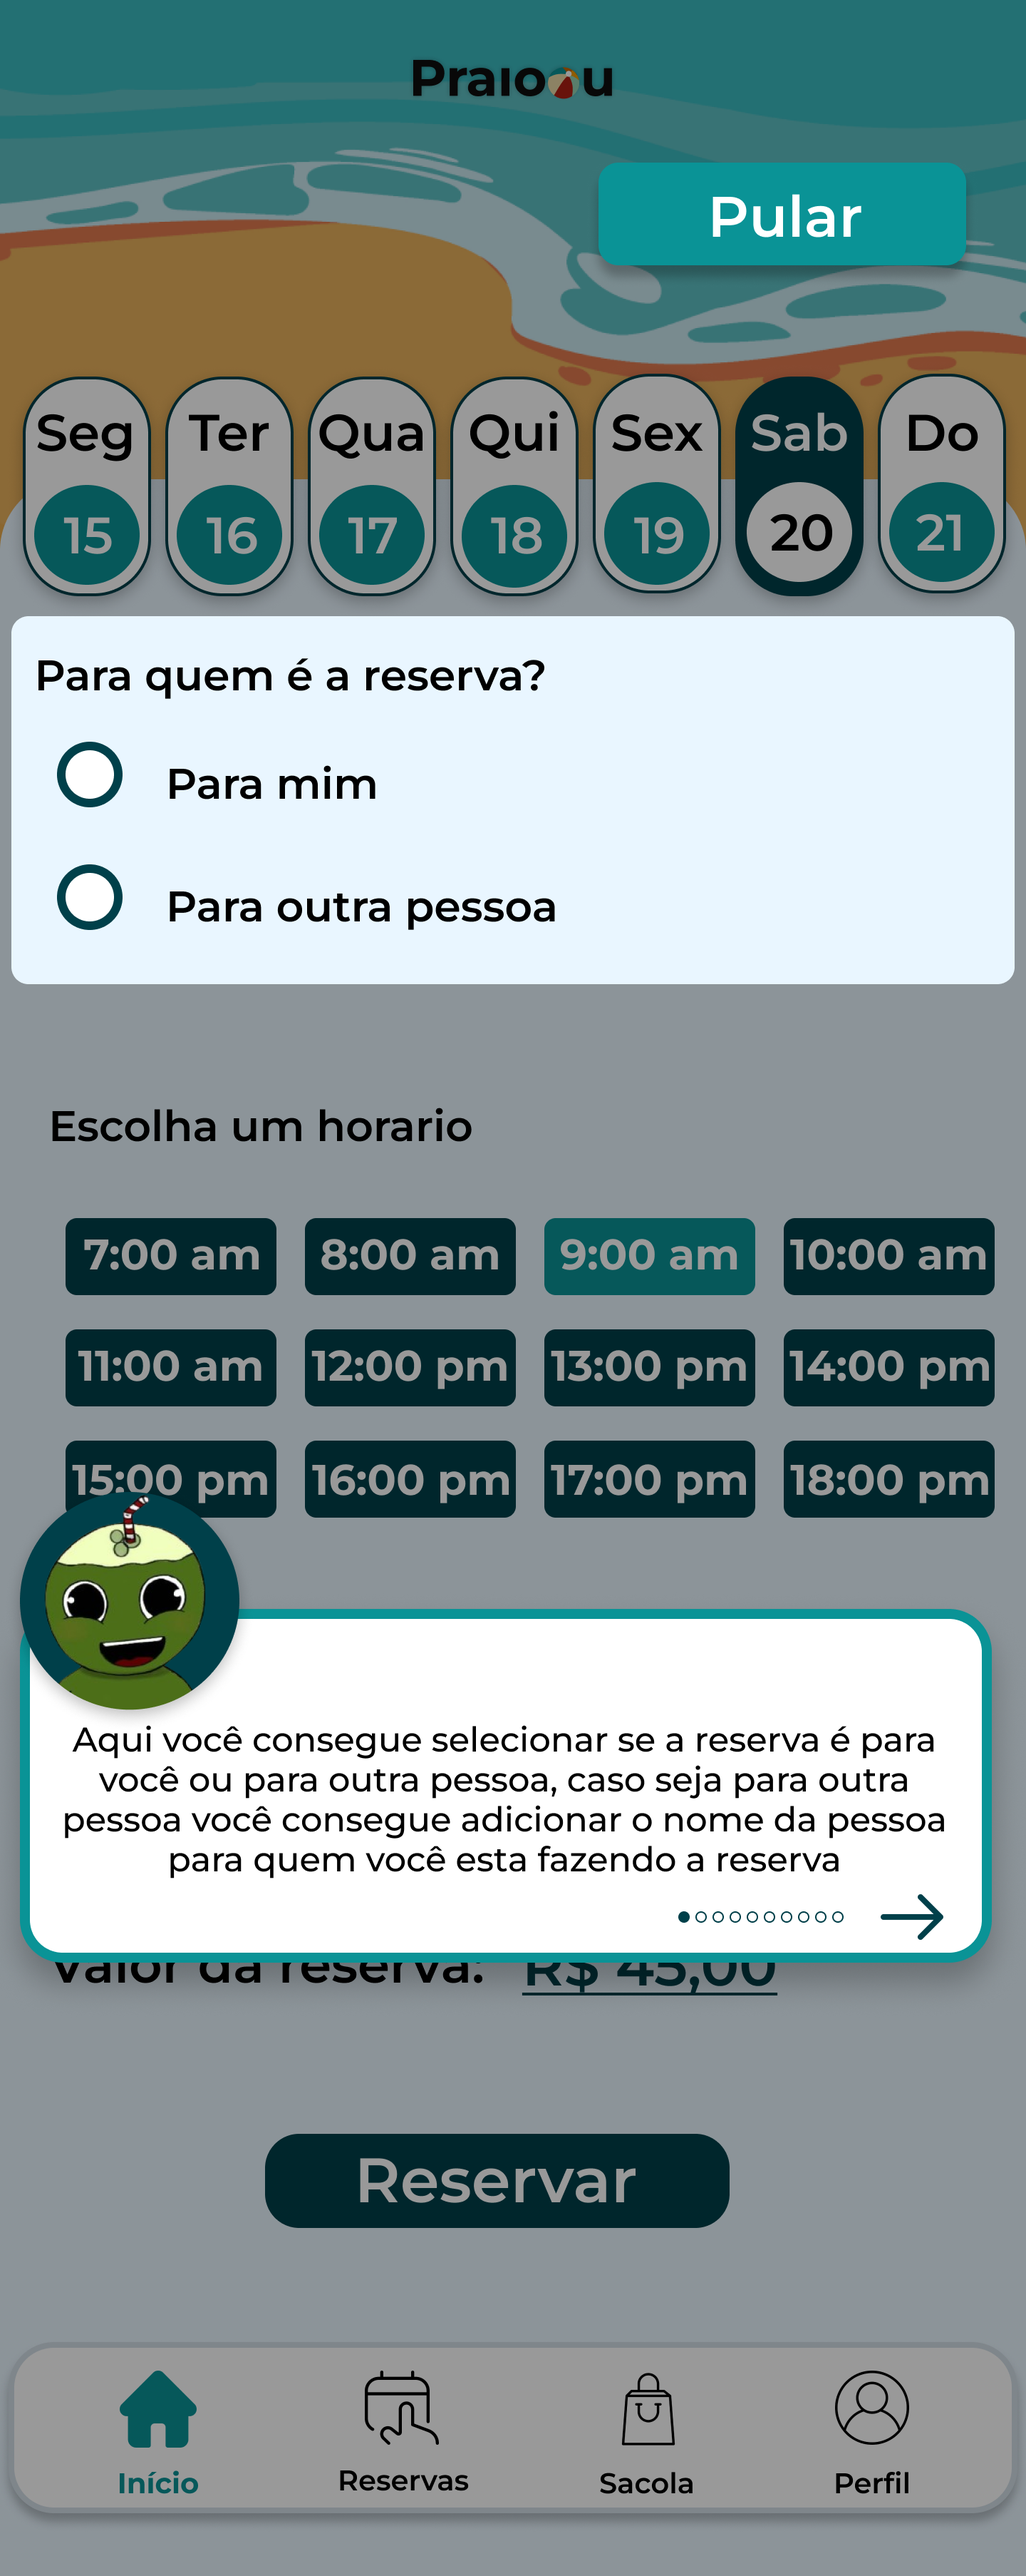
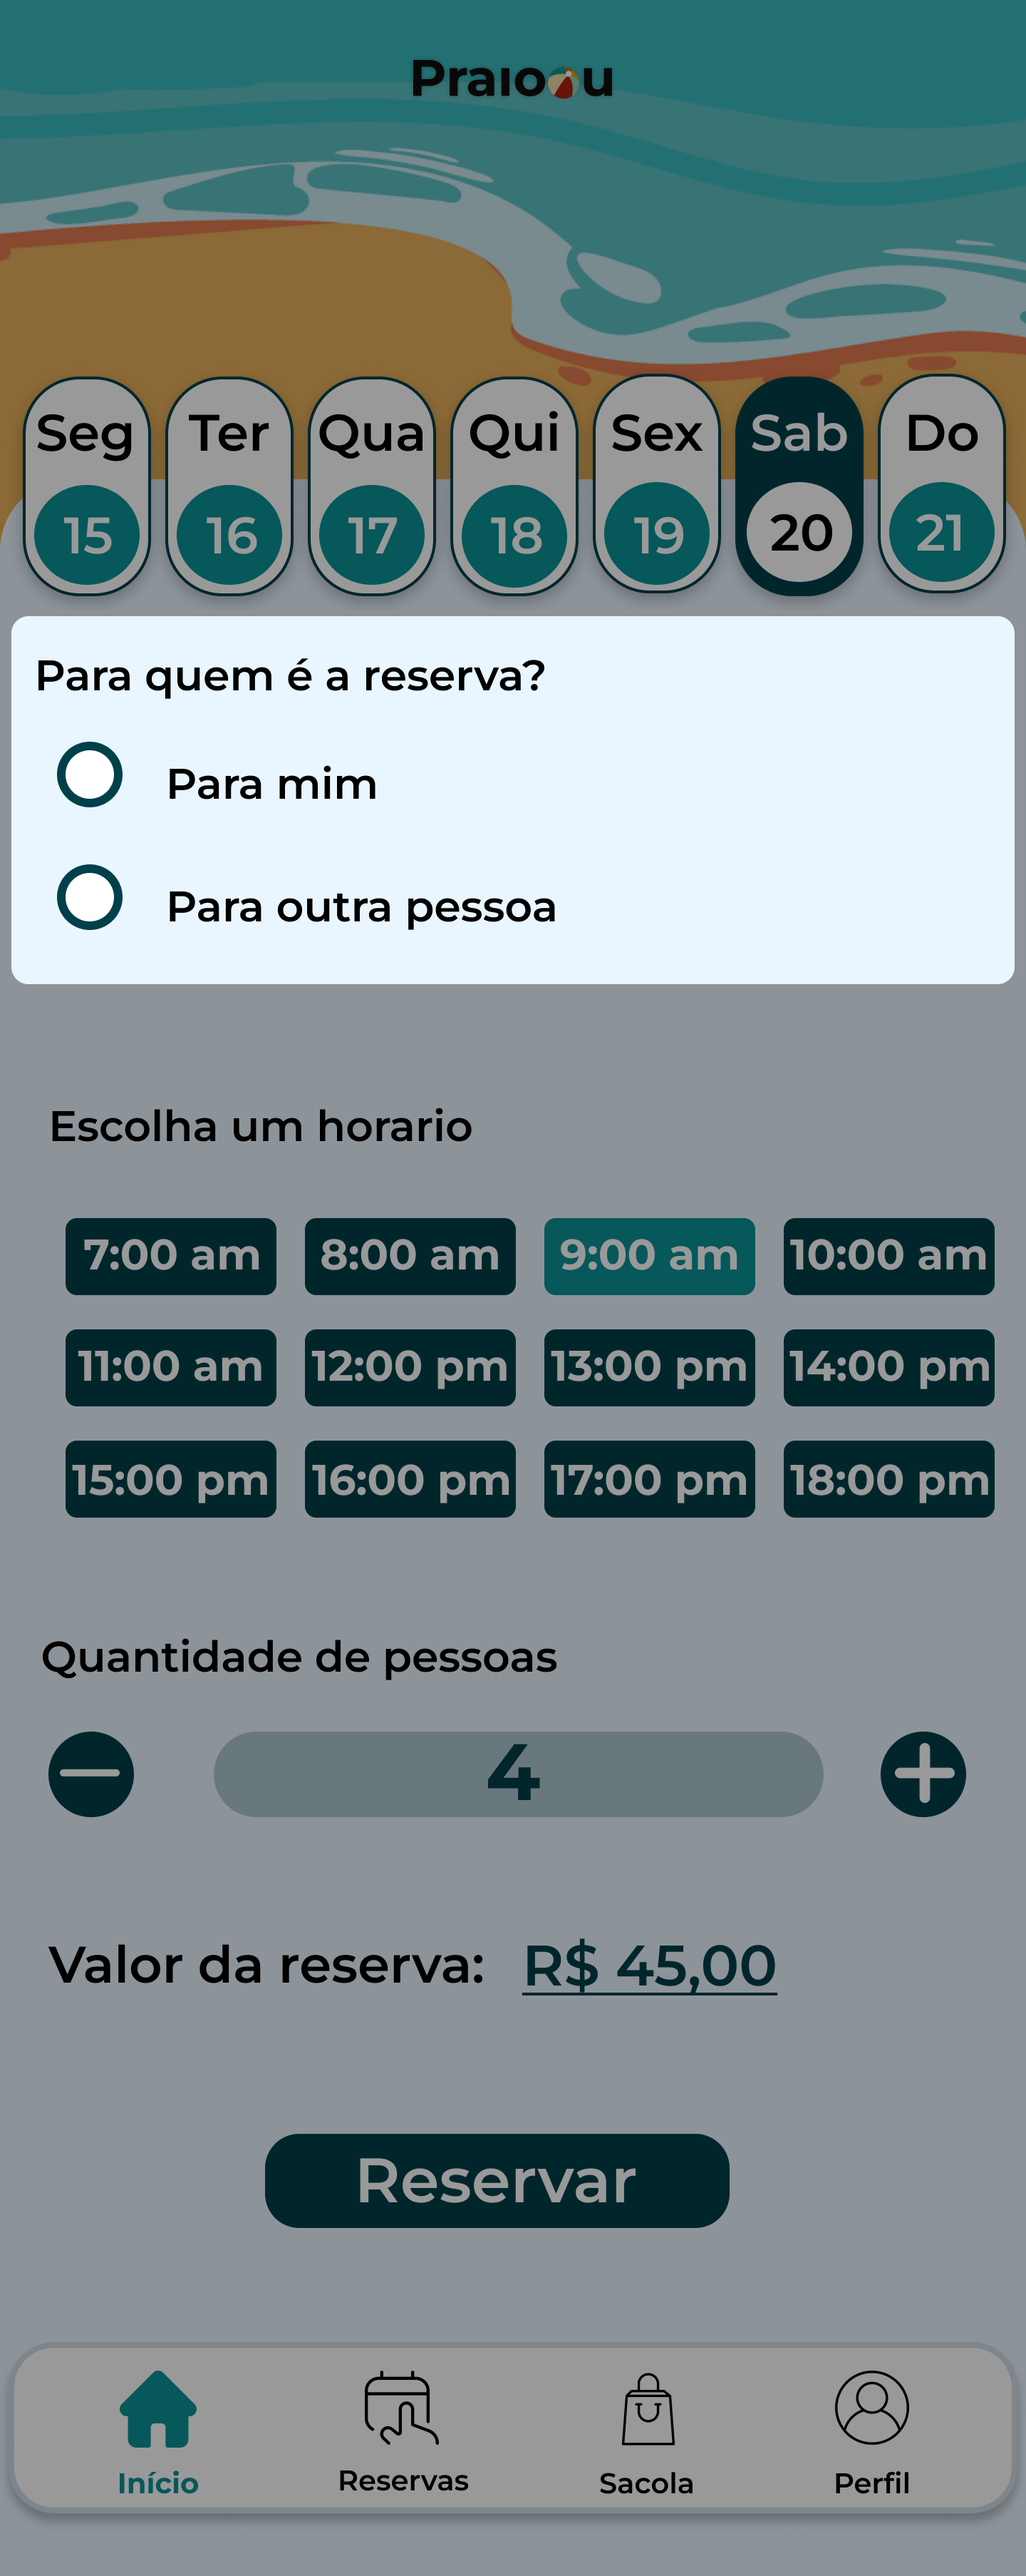
tentei

Changed region(s): [[0.0, 0.5581, 0.9688, 0.7752], [0.5625, 0.062, 0.9688, 0.124]]

diff --git a/MOBILE/src/views/banhista/TutorialB/Assets/styles.css b/MOBILE/src/views/banhista/TutorialB/Assets/styles.css
@@ -328,6 +328,16 @@ p {
     display: none;
 }
 
+.CardP14 {
+    width: 100%;
+    display: flex
+;
+    justify-content: center;
+    position: absolute;
+    z-index: 5;
+    bottom: 73vw;
+}
+
 #parte15{
     width: 100%;
     z-index: 2;
